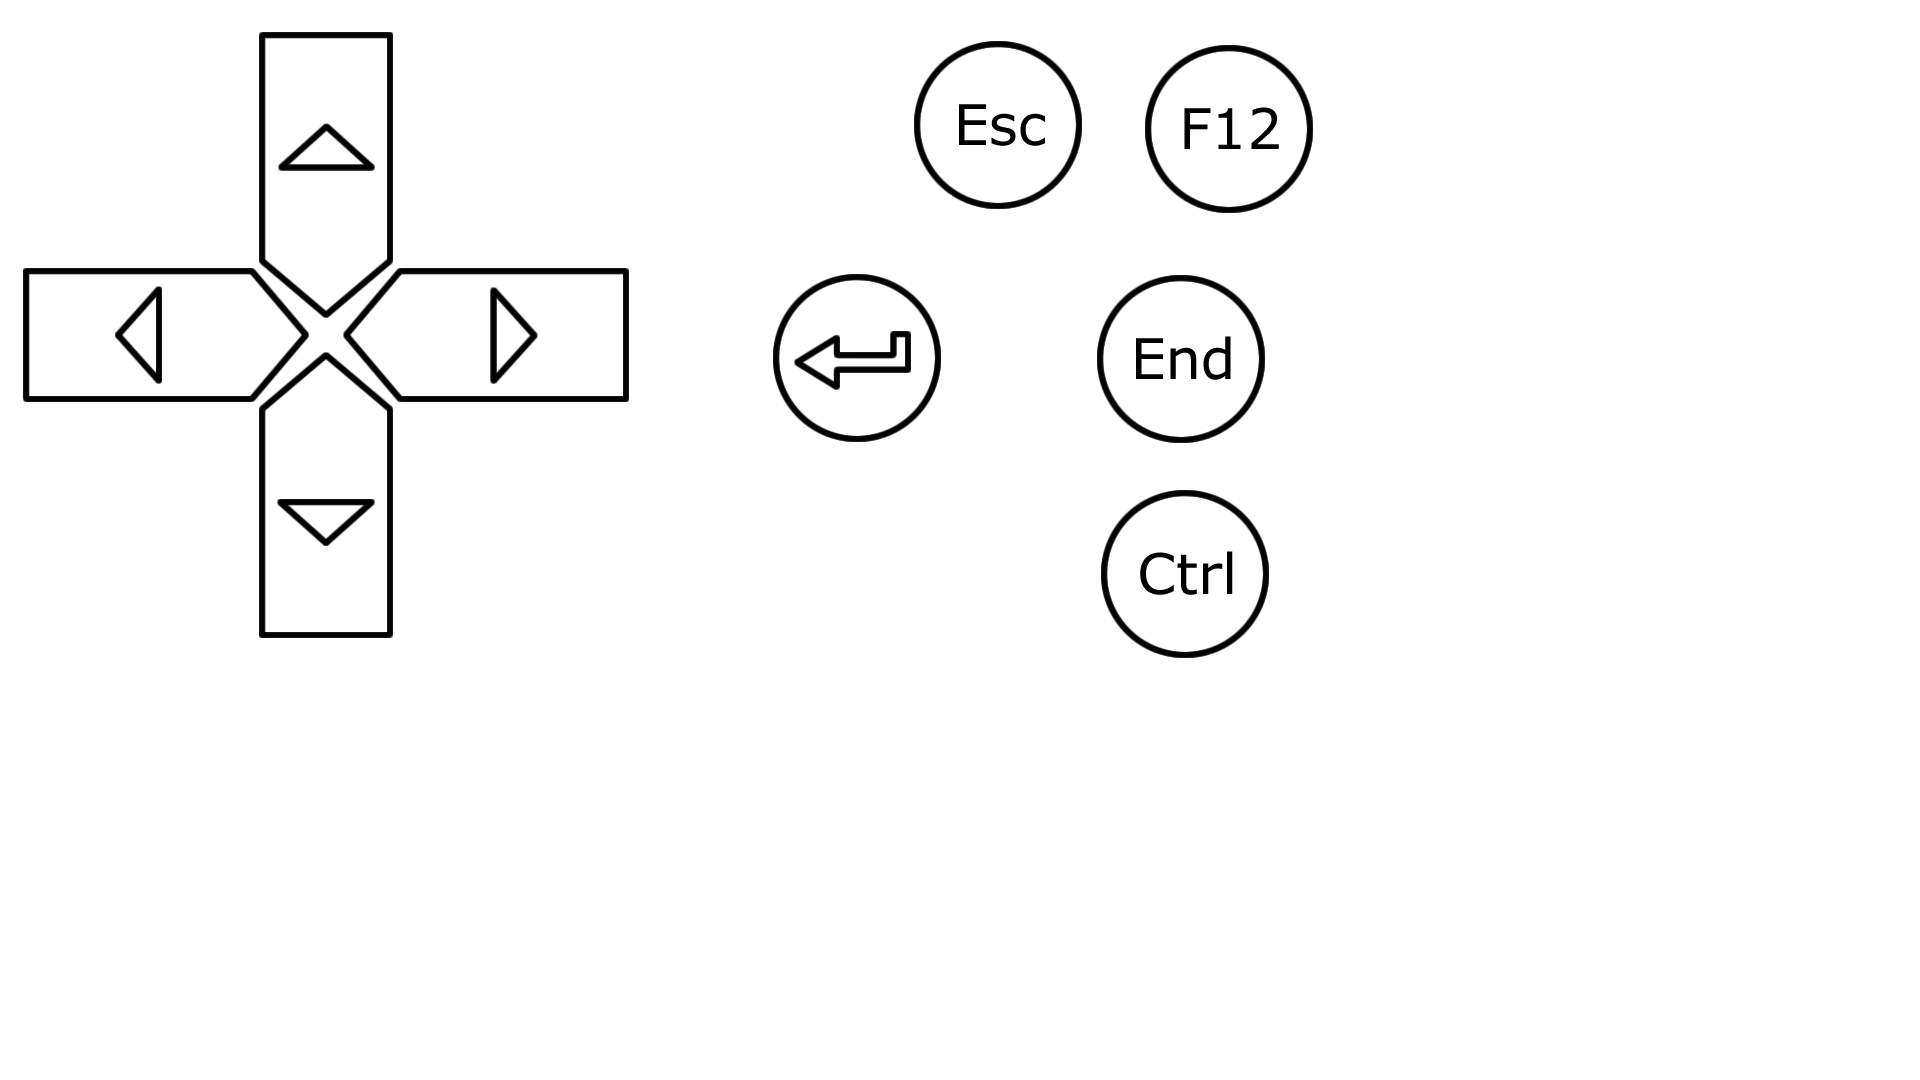
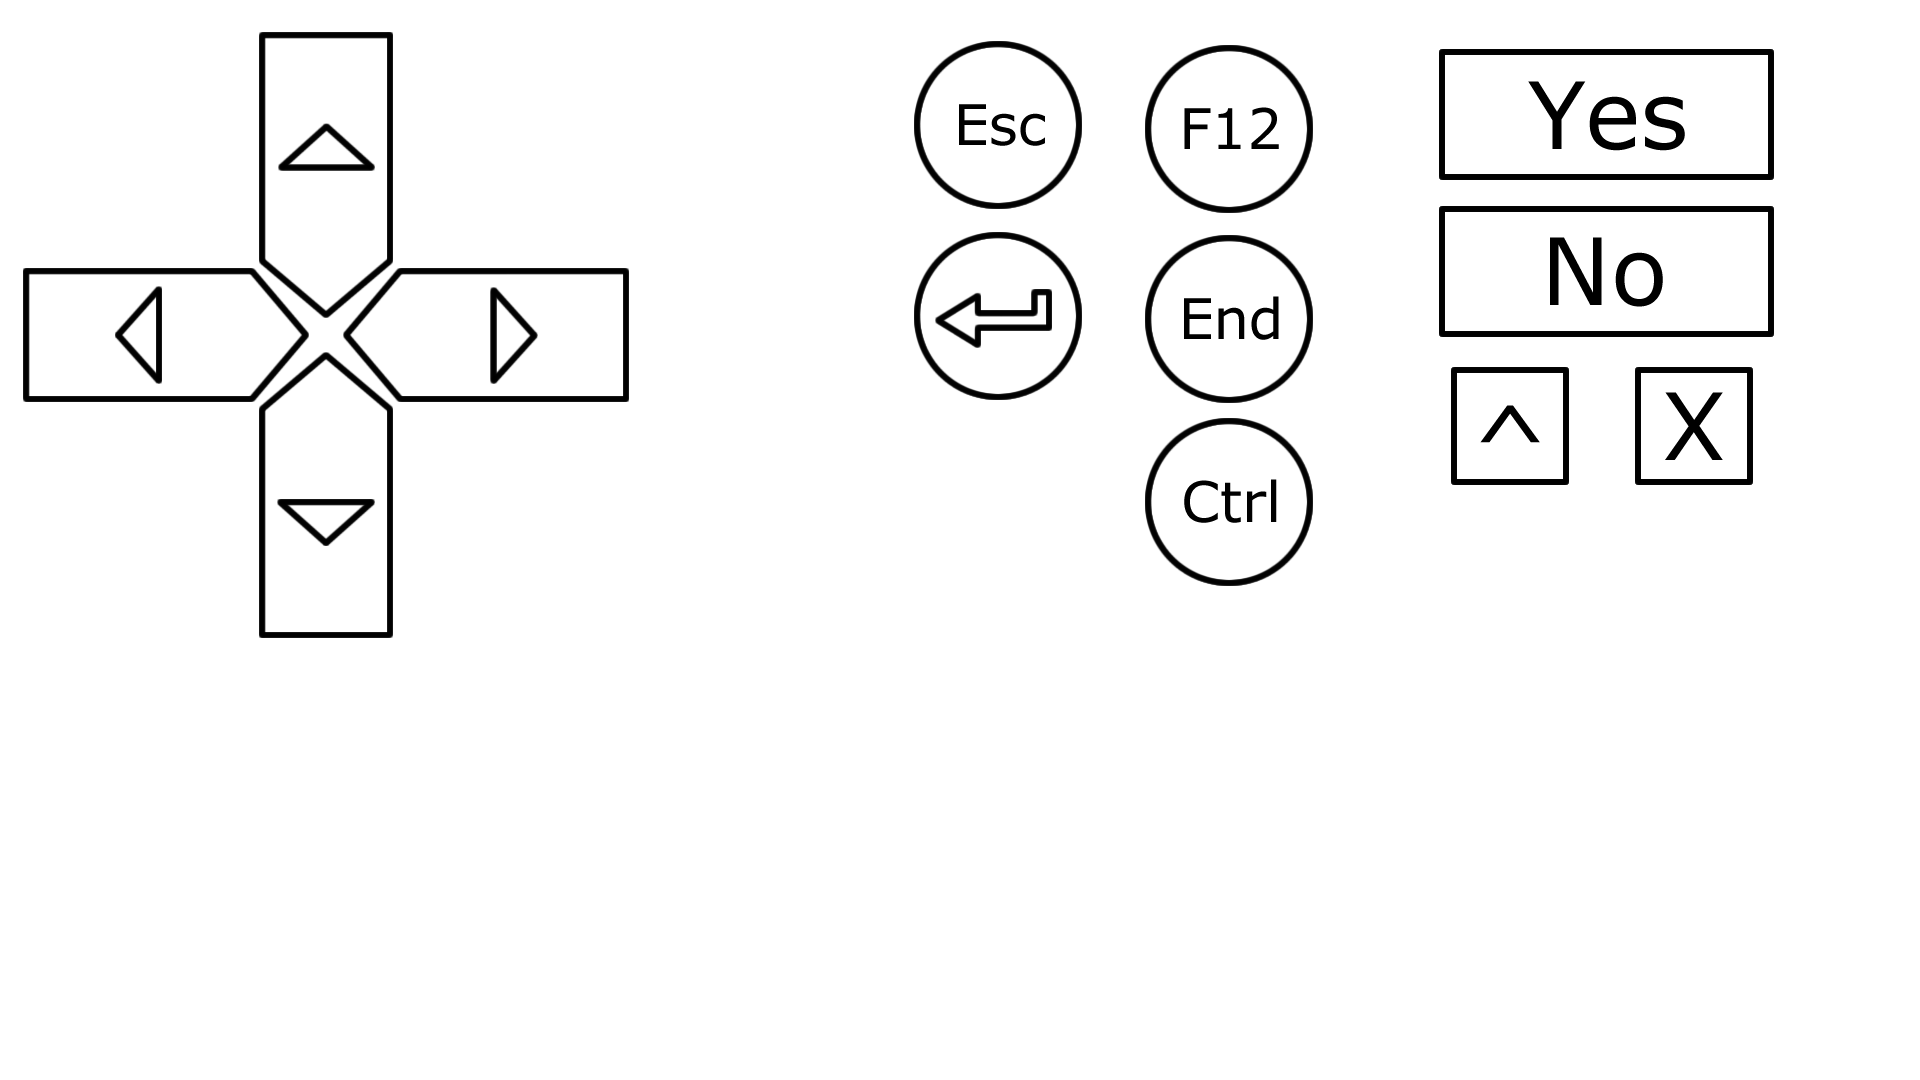
Replaced close and keyboard buttons with images and added close app dialog.

diff --git a/osd-buttons/MainWindow.xaml b/osd-buttons/MainWindow.xaml
@@ -16,18 +16,16 @@
          to execute the manipulation methods -->
             <Ellipse Fill="#FFF4F4F5" HorizontalAlignment="Left" Height="132" Margin="52,0,0,128" Stroke="Black" VerticalAlignment="Bottom" Width="132" IsManipulationEnabled="true" Opacity="0.3" Stylus.IsPressAndHoldEnabled="False"/>
         </UserControl>
-        <Button x:Name="buttonKeyboard" Content="^" HorizontalAlignment="Right" Margin="0,0,10,10" VerticalAlignment="Bottom" Width="28" FontSize="20" Click="buttonKeyboard_Click" Height="26"/>
-        <Button x:Name="buttonClose" Content="X" HorizontalAlignment="Right" Margin="0,10,10,0" VerticalAlignment="Top" Width="28" FontSize="16" Click="buttonClose_Click" Height="26"/>
-        <Rectangle x:Name="rectangle_1" HorizontalAlignment="Left" Height="42" Margin="197,0,0,8" Stroke="Black" VerticalAlignment="Bottom" Width="45" TouchEnter="one_TouchDown" TouchLeave="one_TouchUp"/>
-        <Rectangle x:Name="rectangle_2" HorizontalAlignment="Left" Height="42" Margin="254,0,0,8" Stroke="Black" VerticalAlignment="Bottom" Width="45" TouchEnter="two_TouchDown" TouchLeave="two_TouchUp"/>
-        <Rectangle x:Name="rectangle_3" HorizontalAlignment="Left" Height="42" Margin="310,0,0,8" Stroke="Black" VerticalAlignment="Bottom" Width="44" TouchEnter="three_TouchDown" TouchLeave="three_TouchUp"/>
-        <Rectangle x:Name="rectangle_4" HorizontalAlignment="Left" Height="42" Margin="367,0,0,8" Stroke="Black" VerticalAlignment="Bottom" Width="45" TouchEnter="four_TouchDown" TouchLeave="four_TouchUp"/>
-        <Rectangle x:Name="rectangle_5" HorizontalAlignment="Left" Height="42" Margin="422,0,0,8" Stroke="Black" VerticalAlignment="Bottom" Width="45" TouchEnter="five_TouchDown" TouchLeave="five_TouchUp"/>
-        <Rectangle x:Name="rectangle_6" HorizontalAlignment="Left" Height="42" Margin="476,0,0,8" Stroke="Black" VerticalAlignment="Bottom" Width="45" TouchEnter="six_TouchDown" TouchLeave="six_TouchUp"/>
-        <Rectangle x:Name="rectangle_7" HorizontalAlignment="Left" Height="42" Margin="533,0,0,8" Stroke="Black" VerticalAlignment="Bottom" Width="45" TouchEnter="seven_TouchDown" TouchLeave="seven_TouchUp"/>
-        <Rectangle x:Name="rectangle_8" HorizontalAlignment="Left" Height="42" Margin="592,0,0,8" Stroke="Black" VerticalAlignment="Bottom" Width="43" TouchEnter="eight_TouchDown" TouchLeave="eight_TouchUp"/>
-        <Rectangle x:Name="rectangle_9" HorizontalAlignment="Left" Height="42" Margin="646,0,0,8" Stroke="Black" VerticalAlignment="Bottom" Width="44" TouchEnter="nine_TouchDown" TouchLeave="nine_TouchUp"/>
-        <Rectangle x:Name="rectangle_0" HorizontalAlignment="Left" Height="42" Margin="702,0,0,8" Stroke="Black" VerticalAlignment="Bottom" Width="45" TouchEnter="zero_TouchDown" TouchLeave="zero_TouchUp"/>
+        <Rectangle x:Name="rectangle_1" HorizontalAlignment="Left" Height="42" Margin="197,0,0,8" Stroke="Black" VerticalAlignment="Bottom" Width="45" TouchEnter="one_TouchDown" TouchLeave="one_TouchUp" Stylus.IsPressAndHoldEnabled="False"/>
+        <Rectangle x:Name="rectangle_2" HorizontalAlignment="Left" Height="42" Margin="254,0,0,8" Stroke="Black" VerticalAlignment="Bottom" Width="45" TouchEnter="two_TouchDown" TouchLeave="two_TouchUp" Stylus.IsPressAndHoldEnabled="False"/>
+        <Rectangle x:Name="rectangle_3" HorizontalAlignment="Left" Height="42" Margin="310,0,0,8" Stroke="Black" VerticalAlignment="Bottom" Width="44" TouchEnter="three_TouchDown" TouchLeave="three_TouchUp" Stylus.IsPressAndHoldEnabled="False"/>
+        <Rectangle x:Name="rectangle_4" HorizontalAlignment="Left" Height="42" Margin="367,0,0,8" Stroke="Black" VerticalAlignment="Bottom" Width="45" TouchEnter="four_TouchDown" TouchLeave="four_TouchUp" Stylus.IsPressAndHoldEnabled="False"/>
+        <Rectangle x:Name="rectangle_5" HorizontalAlignment="Left" Height="42" Margin="422,0,0,8" Stroke="Black" VerticalAlignment="Bottom" Width="45" TouchEnter="five_TouchDown" TouchLeave="five_TouchUp" Stylus.IsPressAndHoldEnabled="False"/>
+        <Rectangle x:Name="rectangle_6" HorizontalAlignment="Left" Height="42" Margin="476,0,0,8" Stroke="Black" VerticalAlignment="Bottom" Width="45" TouchEnter="six_TouchDown" TouchLeave="six_TouchUp" Stylus.IsPressAndHoldEnabled="False"/>
+        <Rectangle x:Name="rectangle_7" HorizontalAlignment="Left" Height="42" Margin="533,0,0,8" Stroke="Black" VerticalAlignment="Bottom" Width="45" TouchEnter="seven_TouchDown" TouchLeave="seven_TouchUp" Stylus.IsPressAndHoldEnabled="False"/>
+        <Rectangle x:Name="rectangle_8" HorizontalAlignment="Left" Height="42" Margin="592,0,0,8" Stroke="Black" VerticalAlignment="Bottom" Width="43" TouchEnter="eight_TouchDown" TouchLeave="eight_TouchUp" Stylus.IsPressAndHoldEnabled="False"/>
+        <Rectangle x:Name="rectangle_9" HorizontalAlignment="Left" Height="42" Margin="646,0,0,8" Stroke="Black" VerticalAlignment="Bottom" Width="44" TouchEnter="nine_TouchDown" TouchLeave="nine_TouchUp" Stylus.IsPressAndHoldEnabled="False"/>
+        <Rectangle x:Name="rectangle_0" HorizontalAlignment="Left" Height="42" Margin="702,0,0,8" Stroke="Black" VerticalAlignment="Bottom" Width="45" TouchEnter="zero_TouchDown" TouchLeave="zero_TouchUp" Stylus.IsPressAndHoldEnabled="False"/>
 
         <Image x:Name="image_enter" HorizontalAlignment="Right" Height="64" Margin="0,0,32,74" VerticalAlignment="Bottom" Width="64" Source="images/enter.png" TouchEnter="enter_TouchDown" TouchLeave="enter_TouchUp" Opacity="0.3" Stylus.IsPressAndHoldEnabled="False"/>
         <Image x:Name="image_end" HorizontalAlignment="Right" Height="64" Margin="0,0,220,263" VerticalAlignment="Bottom" Width="64" Source="images/end.png" TouchEnter="end_TouchDown" TouchLeave="end_TouchUp" Opacity="0.3" Stylus.IsPressAndHoldEnabled="False"/>
@@ -38,6 +36,16 @@
         <Image x:Name="image_down" HorizontalAlignment="Right" Height="94" Margin="0,0,136,105" VerticalAlignment="Bottom" Width="44" Source="images/down.png" TouchEnter="down_TouchDown" TouchLeave="down_TouchUp" Opacity="0.3" Stylus.IsPressAndHoldEnabled="False"/>
         <Image x:Name="image_left" HorizontalAlignment="Right" Height="44" Margin="0,0,160,179" VerticalAlignment="Bottom" Width="94" Source="images/left.png" TouchEnter="left_TouchDown" TouchLeave="left_TouchUp" Opacity="0.3" Stylus.IsPressAndHoldEnabled="False"/>
         <Image x:Name="image_right" HorizontalAlignment="Right" Height="44" Margin="0,0,62,179" VerticalAlignment="Bottom" Width="94" Source="images/right.png" TouchEnter="right_TouchDown" TouchLeave="right_TouchUp" Opacity="0.3" Stylus.IsPressAndHoldEnabled="False"/>
+        <Image x:Name="image_close" HorizontalAlignment="Right" Height="32" Margin="0,10,10,0" VerticalAlignment="Top" Width="32" Source="images/close.png" MouseLeftButtonUp="show_close_dialog" Opacity="0.3" Stylus.IsPressAndHoldEnabled="False"/>
+        <Image x:Name="image_keyboard" HorizontalAlignment="Right" Height="32" Margin="0,0,10,10" VerticalAlignment="Bottom" Width="32" Source="images/keyboard.png"  MouseLeftButtonUp="keyboard_Open" Opacity="0.3" Stylus.IsPressAndHoldEnabled="False"/>
+
+        <Grid x:Name="close_dialog" Margin="0,0,0,0" Visibility="hidden">
+            <Rectangle Height="274" Margin="10" Stroke="Black" Width="628" StrokeThickness="3" Fill="White" HorizontalAlignment="Center" VerticalAlignment="Center"/>
+            <Label x:Name="label" Content="Close on-screen controls?" Margin="47,35,47,185" Foreground="Black" FontSize="48" Height="74" VerticalAlignment="Center" HorizontalAlignment="Center"/>
+            <Image x:Name="image_close_yes" HorizontalAlignment="Center" Height="50" Margin="392,172,128,72" VerticalAlignment="Center" Width="128" Source="images/yes.png" MouseLeftButtonUp="close_App"/>
+            <Image x:Name="image_close_no" HorizontalAlignment="Center" Height="50" Margin="128,172,392,72" VerticalAlignment="Center" Width="128" Source="images/no.png" MouseLeftButtonUp="hide_close_dialog"/>
+        </Grid>
+
 
     </Grid>
 </Window>

diff --git a/osd-buttons/MainWindow.xaml.cs b/osd-buttons/MainWindow.xaml.cs
@@ -490,12 +490,21 @@ namespace osd_buttons
         }
 
 
-        private void buttonKeyboard_Click(object sender, RoutedEventArgs e)
+        private void keyboard_Open(object sender, RoutedEventArgs e)
         {
             Process.Start(@"C:\Program Files\Common Files\microsoft shared\ink\TabTip.exe");
         }
 
-        private void buttonClose_Click(object sender, RoutedEventArgs e)
+        private void show_close_dialog(object sender, RoutedEventArgs e)
+        {
+            close_dialog.Visibility = Visibility.Visible;
+        }
+        private void hide_close_dialog(object sender, RoutedEventArgs e)
+        {
+            close_dialog.Visibility = Visibility.Hidden;
+        }
+
+        private void close_App(object sender, RoutedEventArgs e)
         {
             System.Windows.Application.Current.Shutdown();
         }
